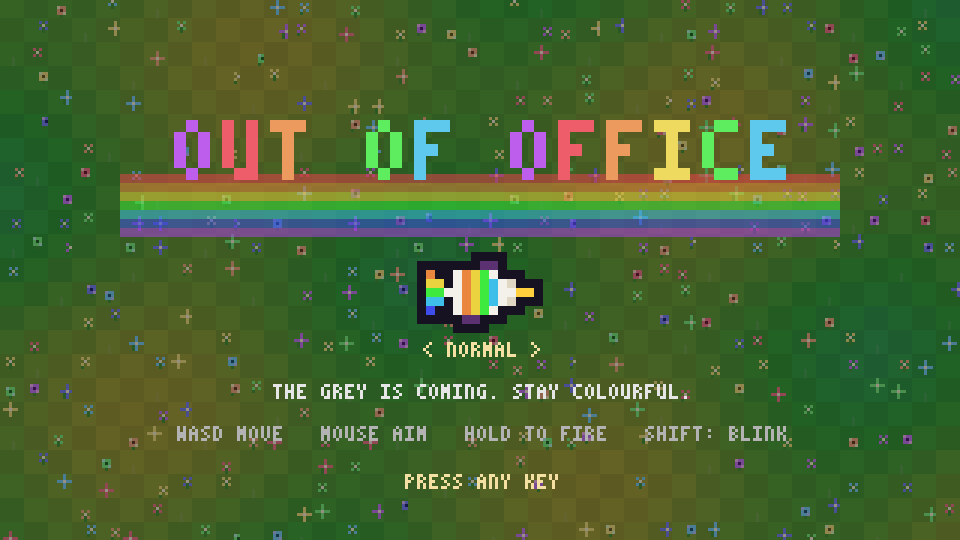
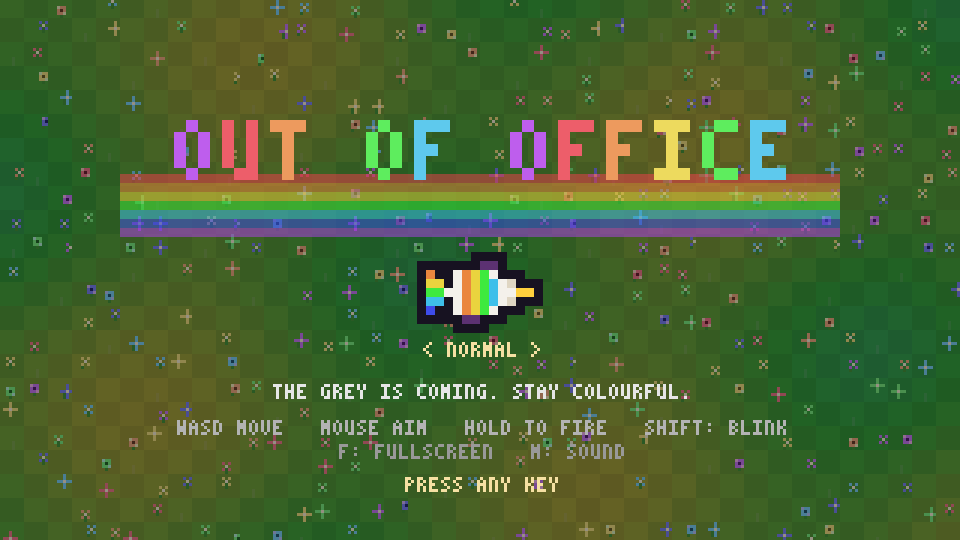
minor gameplay adjustments

Changed region(s): [[0.3125, 0.7704, 0.8125, 0.9185], [0.1875, 0.7704, 0.2812, 0.8296]]

diff --git a/src/72_bullets.js b/src/72_bullets.js
@@ -8,13 +8,13 @@ function shot(x, y, an, sp, d, hue, l, k) {
 function volley() {
   const p = P, x = p.x + cos(p.an) * 2, y = p.y + sin(p.an) * 2, an = p.an, s = (a, sp, d, hue, l, k) => shot(x, y, a, sp, d, hue, l, k);   // from the centre, so a thing standing on you still gets hit
   const w = wep, xs = p.extra, n0 = bu.length;
-  if (w == 0) { for (let b = 0; b < 7 + xs; b++) s(an + (b - 3 - xs / 2) * .055, 2.4 + (b % 7) * .28, 1, HUES[b % 7], 55, 0); snd(500, .06, 'square', .02, 900); }
-  else if (w == 1) { for (let i = 0; i <= xs / 2; i++) s(an + (rs() - .5) * .35, 3.6, 1, HUES[0], 20, 0); snd(180, .05, 'sawtooth', .02, 90); }
-  else if (w == 2) { s(an, 10, 7, HUES[6], 40, 1); for (let i = 0; i < xs; i++) s(an + (i + 1) * .1 * (i % 2 ? 1 : -1), 10, 7, HUES[6], 40, 1); snd(1400, .18, 'sawtooth', .04, 200); shake = 2; }
-  else if (w == 3) { for (let i = 0; i <= xs / 2; i++) s(an + (i - xs / 4) * .2, 2.4, 1, HUES[3], 34, 2); snd(300, .12, 'sine', .04, 120); }
-  else if (w == 4) { for (let i = 0; i <= xs / 2; i++) s(an + (rs() - .5) * .5, 3, .6, HUES[4], 18, 3); sh(.05, .02, 3000); }
+  if (w == 0) { for (let b = 0; b < 7 + xs; b++) s(an + (b - 3 - xs / 2) * .055, 2.4 + (b % 7) * .28, 1, HUES[b % 7], 55, 0); snd(900, .09, 'square', .07, 1800); }
+  else if (w == 1) { for (let i = 0; i <= xs / 2; i++) s(an + (rs() - .5) * .35, 3.6, 1, HUES[0], 20, 0); snd(160, .06, 'sawtooth', .05, 70); }
+  else if (w == 2) { s(an, 10, 7, HUES[6], 40, 1); for (let i = 0; i < xs; i++) s(an + (i + 1) * .1 * (i % 2 ? 1 : -1), 10, 7, HUES[6], 40, 1); snd(1600, .2, 'sawtooth', .09, 150); shake = 2; }
+  else if (w == 3) { for (let i = 0; i <= xs / 2; i++) s(an + (i - xs / 4) * .2, 2.4, 1, HUES[3], 34, 2); snd(320, .14, 'sine', .08, 90); }
+  else if (w == 4) { for (let i = 0; i <= xs / 2; i++) s(an + (rs() - .5) * .5, 3, .6, HUES[4], 18, 3); sh(.06, .06, 4500); }
   else if (w == 5) arc(x, y, an, 3 + xs);
-  else { for (let i = 0; i < 6 + xs; i++) s(an + (rs() - .5) * .6, 3.4 + rs(), 2, HUES[1], 13, 0); snd(120, .12, 'square', .05, 40); shake = 3; }
+  else { for (let i = 0; i < 6 + xs; i++) s(an + (rs() - .5) * .6, 3.4 + rs(), 2, HUES[1], 13, 0); snd(140, .14, 'square', .1, 35); shake = 3; }
   if (p.mirror) for (let i = n0, n1 = bu.length; i < n1; i++) { const b = bu[i]; bu.push({ ...b, x: p.x - (b.x - p.x), y: p.y - (b.y - p.y), vx: -b.vx, vy: -b.vy }); }
   if (p.ring && ++vol % 8 == 0) { for (let i = 0; i < 14; i++) shot(p.x, p.y, i * PI / 7, 3, 1, HUES[i % 7], 50, 0); snd(700, .3, 'triangle', .04, 1400); }
   if (ammo && !p.inf && !--ammo) { wep = 0; say('PRISM'); }
@@ -30,7 +30,7 @@ function arc(x, y, an, hops, quiet) {
     bolts.push({ x: cx, y: cy, x2: b.x, y2: b.y, l: 6 }); hit.push(b); damage(b, 3 * P.dmg); paint(b.x, b.y, 0, .5);
     cx = b.x; cy = b.y;
   }
-  if (!quiet) snd(2000 + rs() * 1000, .08, 'square', hit.length ? .03 : .01, 300);
+  if (!quiet) snd(2000 + rs() * 1000, .1, 'square', hit.length ? .07 : .03, 300);
 }
 function stepBullets() {
   bu = bu.filter(b => {

diff --git a/src/82_screens.js b/src/82_screens.js
@@ -7,15 +7,16 @@ function title() {
   X.save(); X.translate(W / 2, 96); X.scale(3, 3); X.drawImage(uni(t / 12 & 1), -7, -4); X.restore();
   txt('< ' + DN[dif] + ' >', W / 2, 114, C(45, 80), 1, 1);
   txt('THE GREY IS COMING. STAY COLOURFUL.', W / 2, 128, C(0, 90, 0), 1, 1);
-  txt('WASD MOVE   MOUSE AIM   HOLD TO FIRE   SHIFT: BLINK   F: FULLSCREEN', W / 2, 142, C(0, 70, 0), 1, 1);
-  txt(lit ? (t / 30 & 1 ? 'PRESS ANY KEY' : '') : 'CLICK TO START', W / 2, 158, C(45, 80), 1, 1);
+  txt('WASD MOVE   MOUSE AIM   HOLD TO FIRE   SHIFT: BLINK', W / 2, 140, C(0, 70, 0), 1, 1);
+  txt('F: FULLSCREEN   M: SOUND', W / 2, 148, C(0, 60, 0), 1, 1);
+  txt(lit ? (t / 30 & 1 ? 'PRESS ANY KEY' : '') : 'CLICK TO START', W / 2, 159, C(45, 80), 1, 1);
   if (best) txt('BEST ' + best + ' KILLS   ' + ACH.filter((a, i) => ach >> i & 1).length + '/' + ACH.length + ' UNLOCKED', W / 2, 170, C(0, 60, 0), 1, 1);
 }
 const cardX = i => 12 + i * 100;                    // three cards of 96, centred
 function perkScreen() {
   R(0, 0, W, H, C(260, 8, 30, .6));
   const y = H / 2 - 40 | 0;
-  txt('LEVEL ' + lvl + ' - PICK A PERK', W / 2, y - 26, C(0, 100, 0), 2, 1);
+  txt('LEVEL ' + lvl, W / 2, y - 26, C(0, 100, 0), 2, 1);
   opts.forEach((o, i) => {
     const x = cardX(i), on = i == (mx - 12) / 100 | 0, r = o[2], rc = RC[r], leg = r == 4;   // the card under the mouse lights up
     R(x, y, 96, 80, on ? C(leg ? HUES[(t / 8 | 0) % 7] : rc[0], leg ? 60 : rc[1] + 15, rc[2]) : C(rc[0], rc[1] * .5, rc[2] * .6));

diff --git a/src/60_input.js b/src/60_input.js
@@ -10,11 +10,11 @@ addEventListener('keydown', e => {
   const k = e.key.toLowerCase(); K[k] = 1;
   if (['arrowup', 'arrowdown', 'arrowleft', 'arrowright'].includes(k)) e.preventDefault();
   wake();
-  if (k == 'm') mute ^= 1;
+  if (k == 'm') return mute ^= 1;                  // mute and fullscreen never start or advance a screen
+  if (k == 'f') return CV.requestFullscreen();
   if (e.repeat) return;
   if (k == 'shift' || k == 'q' || k == 'e') blink();
   if (st == 'play' && (k == 'p' || k == 'escape')) paused ^= 1;
-  if (k == 'f') CV.requestFullscreen();
   if (st == 'perk') { if (k == 'r' && !rr) { rr = 1; levelUp(); } return; }   // cards are clicked; R is one reroll a level
   if (st == 'title' && (k == 'arrowleft' || k == 'arrowright' || k == 'a' || k == 'd')) { dif = (dif + (k == 'arrowleft' || k == 'a' ? 2 : 1)) % 3; return; }
   if (st != 'play') menu();

diff --git a/tools/dev.js b/tools/dev.js
@@ -6,5 +6,5 @@ const files = readdirSync('src').filter(f => f.endsWith('.js')).sort();
 const tags = files.map(f => `<script src="src/${f}"></script>`).join('\n');
 writeFileSync('dev.html', readFileSync('src/index.html', 'utf8')
   .replace('<script>/*GAME*/</script>', tags)
-  .replace('<title>OUT OF OFFICE</title>', '<title>OUT OF OFFICE [dev]</title>'));
+  .replace('<title>OoO</title>', '<title>OoO [dev]</title>'));
 console.log('dev.html written with ' + files.length + ' modules');

diff --git a/src/index.html b/src/index.html
@@ -1,4 +1,4 @@
 <!doctype html>
-<title>OUT OF OFFICE</title>
-<style>html,body{margin:0;height:100%;background:#0b0a1a;display:grid;place-items:center;overflow:hidden}
+<title>OoO</title>
+<style>html,body{margin:0;height:100%;background:#112;display:grid;place-items:center;overflow:hidden}
 canvas{image-rendering:pixelated}</style><canvas id=cv></canvas><script>/*GAME*/</script>
